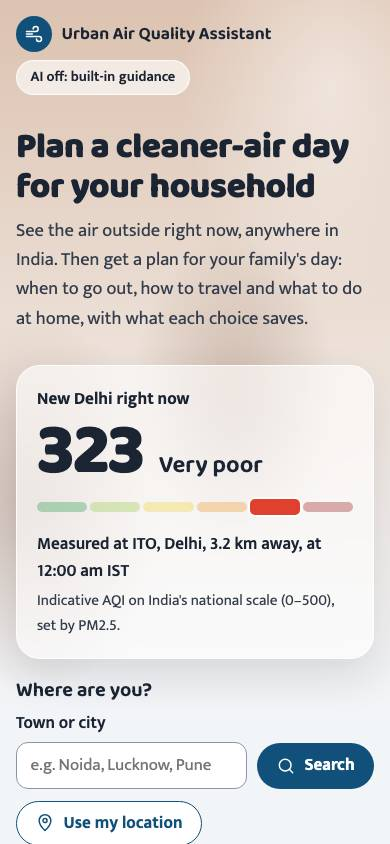
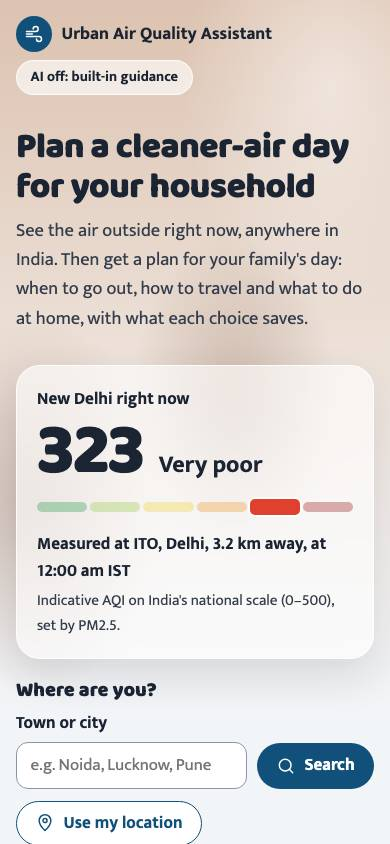
refactor: name shared limits, compute the AQI once, and lighten the fonts
- Query and question lengths, concentration bounds and per-minute
  budgets are named constants shared by the schema and the interface.
- The AQI is computed once in the app shell and passed down.
- A proper hour formatter replaces trimming ":00" off clock strings;
  the chart's screen-reader summary has its own helper.
- Two font files fewer (Baloo 2 at 800 only, Mukta 400 and 700) for a
  faster first paint on slow mobile connections.
- Whole-number fields open a numeric keypad.
- .env.example keeps optional settings commented out, and the deploy
  docs warn against placeholder values.

diff --git a/tests/ui/air.test.tsx b/tests/ui/air.test.tsx
@@ -2,14 +2,19 @@ import { render, screen } from "@testing-library/react";
 import userEvent from "@testing-library/user-event";
 import { describe, expect, it } from "vitest";
 import { AirNow } from "@/components/AirNow";
+import { indianAqi } from "@/lib/domain/aqi";
+import type { AirReport } from "@/lib/domain/air";
 import { OutlookChart } from "@/components/OutlookChart";
 import { outlookScale } from "@/components/outlook-scale";
 import { axeViolations } from "../support/axe";
 import { MODEL_READING, outlookFrom, report } from "../support/fixtures";
 
+/** AirNow with the index its parent would compute. */
+const airNow = (data: AirReport) => <AirNow report={data} aqi={indianAqi(data.reading)} />;
+
 describe("AirNow", () => {
   it("shows the index, its meaning, and exactly where and when it was measured", async () => {
-    const { container } = render(<AirNow report={report()} />);
+    const { container } = render(airNow(report()));
     expect(screen.getByText("Respiratory illness on prolonged exposure.")).toBeInTheDocument();
     expect(screen.getByText("OpenAQ (CPCB)")).toBeInTheDocument();
     expect(screen.getByText("ITO, Delhi, 3.2 km away")).toBeInTheDocument();
@@ -25,27 +30,22 @@ describe("AirNow", () => {
 
   it("labels a model estimate, explains why, and copes without PM10 or a station name", () => {
     const model = render(
-      <AirNow
-        report={report({
-          reading: { ...MODEL_READING, pm25: 30, pm10: 300 },
-          note: "No station nearby.",
-        })}
-      />,
+      airNow(
+        report({ reading: { ...MODEL_READING, pm25: 30, pm10: 300 }, note: "No station nearby." }),
+      ),
     );
     expect(screen.getByText("Model estimate for this spot")).toBeInTheDocument();
     expect(screen.getByText(/WHO 24-hour guideline/)).toHaveTextContent("PM2.5 is 2×");
     expect(screen.getByText("For")).toBeInTheDocument();
     expect(screen.getByText("No station nearby.")).toBeInTheDocument();
     model.unmount();
-    const noPm10 = render(
-      <AirNow report={report({ reading: { ...MODEL_READING, pm25: 12, pm10: null } })} />,
-    );
+    const noPm10 = render(airNow(report({ reading: { ...MODEL_READING, pm25: 12, pm10: null } })));
     expect(screen.queryByText("PM10")).not.toBeInTheDocument();
     expect(
       screen.getByText("PM2.5 is within the WHO 24-hour guideline (15 µg/m³)."),
     ).toBeInTheDocument();
     noPm10.unmount();
-    render(<AirNow report={report({ reading: { ...report().reading, station: null } })} />);
+    render(airNow(report({ reading: { ...report().reading, station: null } })));
     expect(screen.getByText("Monitoring station, 3.2 km away")).toBeInTheDocument();
   });
 });

diff --git a/src/components/OutlookChart.tsx b/src/components/OutlookChart.tsx
@@ -3,7 +3,7 @@
 import { memo, useMemo, useState } from "react";
 import type { OutlookHour } from "@/lib/domain/air";
 import { CATEGORY_LABEL, categoryForPm25 } from "@/lib/domain/aqi";
-import { formatClock } from "@/lib/domain/time";
+import { formatClock, formatHour } from "@/lib/domain/time";
 import { cleanestWindow } from "@/lib/domain/timing";
 import { outlookScale, PM25_DAILY_LIMIT } from "./outlook-scale";
 
@@ -14,6 +14,14 @@ export interface OutlookChartProps {
 
 const describe = (hour: OutlookHour): string =>
   `${formatClock(hour.time)}, ${String(Math.round(hour.pm25))} µg/m³ (${CATEGORY_LABEL[categoryForPm25(hour.pm25)]})`;
+
+/** One sentence a screen reader reads in place of the chart. */
+function summarise(day: OutlookHour[], bestHour: OutlookHour | undefined): string {
+  const values = day.map((hour) => Math.round(hour.pm25));
+  const range = `ranges from ${String(Math.min(...values))} to ${String(Math.max(...values))} µg/m³`;
+  const best = bestHour ? ` Cleanest waking hour: ${describe(bestHour)}.` : "";
+  return `Forecast PM2.5 for the next ${String(day.length)} hours ${range}.${best}`;
+}
 
 /** The next 24 hours of forecast PM2.5, with the cleanest waking hour picked out. */
 export const OutlookChart = memo(function OutlookChart({ outlook, source }: OutlookChartProps) {
@@ -26,7 +34,7 @@ export const OutlookChart = memo(function OutlookChart({ outlook, source }: Outl
     return <p className="note">No hourly forecast is available for this place right now.</p>;
   }
   const bestHour = day.find((hour) => hour.time === best?.start);
-  const summary = `Forecast PM2.5 for the next ${String(day.length)} hours ranges from ${String(Math.round(Math.min(...day.map((h) => h.pm25))))} to ${String(Math.round(Math.max(...day.map((h) => h.pm25))))} µg/m³.${bestHour ? ` Cleanest waking hour: ${describe(bestHour)}.` : ""}`;
+  const summary = summarise(day, bestHour);
 
   return (
     <figure className="outlook">
@@ -63,9 +71,7 @@ export const OutlookChart = memo(function OutlookChart({ outlook, source }: Outl
       </div>
       <ol className="outlook-axis" aria-hidden="true">
         {day.map((hour, index) => (
-          <li key={hour.time}>
-            {index % 4 === 0 ? formatClock(hour.time).replace(":00", "") : ""}
-          </li>
+          <li key={hour.time}>{index % 4 === 0 ? formatHour(hour.time) : ""}</li>
         ))}
       </ol>
       <details className="outlook-table">

diff --git a/src/components/AssistantApp.tsx b/src/components/AssistantApp.tsx
@@ -1,6 +1,6 @@
 "use client";
 
-import { lazy, Suspense, useCallback, useEffect, useMemo } from "react";
+import { useCallback, useEffect, useMemo } from "react";
 import type { Place } from "@/lib/domain/air";
 import type { PlanRequest } from "@/lib/ai/contracts";
 import { fetchAir, useApiCall } from "@/lib/client/api";
@@ -9,15 +9,13 @@ import { useHousehold, usePlace } from "@/lib/client/saved";
 import { indianAqi } from "@/lib/domain/aqi";
 import type { Sample } from "@/lib/samples";
 import { AirSection } from "./AirSection";
+import { AskSection } from "./AskSection";
 import { HouseholdForm } from "./HouseholdForm";
 import { PlaceSearch } from "./PlaceSearch";
 import { PlanSection } from "./PlanSection";
 import { SampleProfiles } from "./SampleProfiles";
 import { Intro, SiteFooter, SiteHeader, SkyBand } from "./SiteFrame";
 import { SkyReading } from "./SkyReading";
-
-// Shown only once live air has loaded, so its code loads then too.
-const AskPanel = lazy(() => import("./AskPanel").then((m) => ({ default: m.AskPanel })));
 
 export interface AssistantAppProps {
   aiEnabled: boolean;
@@ -87,6 +85,7 @@ export function AssistantApp({ aiEnabled }: AssistantAppProps) {
                 place={place}
                 status={air.status}
                 report={report}
+                aqi={aqi}
                 error={air.error}
                 onRetry={() => void loadAir(place)}
               />
@@ -96,14 +95,7 @@ export function AssistantApp({ aiEnabled }: AssistantAppProps) {
               <HouseholdForm value={household} onChange={setHousehold} />
             </section>
             <PlanSection request={request} />
-            {request && (
-              <section aria-labelledby="ask-heading" className="card span-all">
-                <h2 id="ask-heading">Ask about today</h2>
-                <Suspense fallback={<p>Loading…</p>}>
-                  <AskPanel context={request} />
-                </Suspense>
-              </section>
-            )}
+            {request && <AskSection context={request} />}
           </div>
         </main>
       </SkyBand>

diff --git a/src/components/PlaceSearch.tsx b/src/components/PlaceSearch.tsx
@@ -1,6 +1,7 @@
 "use client";
 
 import { useId, useState, type SubmitEvent } from "react";
+import { MAX_QUERY_LENGTH, MIN_QUERY_LENGTH } from "@/lib/air/contracts";
 import { searchPlaces, useApiCall } from "@/lib/client/api";
 import { useDeviceLocation } from "@/lib/client/geolocation";
 import type { Place } from "@/lib/domain/air";
@@ -23,7 +24,8 @@ export function PlaceSearch({ onSelect }: PlaceSearchProps) {
   function submit(event: SubmitEvent<HTMLFormElement>) {
     event.preventDefault();
     device.clearMessage();
-    if (query.trim().length >= 2) void search.run({ q: query.trim() });
+    const q = query.trim();
+    if (q.length >= MIN_QUERY_LENGTH) void search.run({ q });
   }
 
   function choose(place: Place) {
@@ -46,8 +48,8 @@ export function PlaceSearch({ onSelect }: PlaceSearchProps) {
             id={inputId}
             type="search"
             value={query}
-            minLength={2}
-            maxLength={60}
+            minLength={MIN_QUERY_LENGTH}
+            maxLength={MAX_QUERY_LENGTH}
             autoComplete="address-level2"
             placeholder="e.g. Noida, Lucknow, Pune"
             onChange={(event) => setQuery(event.target.value)}

diff --git a/src/components/AirNow.tsx b/src/components/AirNow.tsx
@@ -1,14 +1,15 @@
 "use client";
 
-import { memo, useMemo } from "react";
+import { memo } from "react";
 import type { AirReport, Reading } from "@/lib/domain/air";
-import { CATEGORY_HEALTH, indianAqi } from "@/lib/domain/aqi";
+import { CATEGORY_HEALTH, type AqiResult } from "@/lib/domain/aqi";
 import { cigarettesPerDay, WHO_PM25_DAILY, whoMultiple } from "@/lib/domain/exposure";
 import { formatClock } from "@/lib/domain/time";
 import { OutlookChart } from "./OutlookChart";
 
 export interface AirNowProps {
   report: AirReport;
+  aqi: AqiResult;
 }
 
 function SourceDetails({ reading }: { reading: Reading }) {
@@ -47,9 +48,8 @@ function SourceDetails({ reading }: { reading: Reading }) {
 }
 
 /** What today's air means for health, exactly where the numbers came from, and the day ahead. */
-export const AirNow = memo(function AirNow({ report }: AirNowProps) {
+export const AirNow = memo(function AirNow({ report, aqi }: AirNowProps) {
   const { reading } = report;
-  const aqi = useMemo(() => indianAqi(reading), [reading]);
   const cigarettes = cigarettesPerDay(reading.pm25);
   const who = whoMultiple(reading.pm25);
 

diff --git a/src/components/AirSection.tsx b/src/components/AirSection.tsx
@@ -1,18 +1,21 @@
 "use client";
 
+import type { CallStatus } from "@/lib/client/api";
 import type { AirReport, Place } from "@/lib/domain/air";
+import type { AqiResult } from "@/lib/domain/aqi";
 import { AirNow } from "./AirNow";
 
 export interface AirSectionProps {
   place: Place;
-  status: "idle" | "loading" | "done" | "error";
+  status: CallStatus;
   report: AirReport | undefined;
+  aqi: AqiResult | null;
   error: string | undefined;
   onRetry: () => void;
 }
 
 /** Live air for the chosen place, with loading and failure states. */
-export function AirSection({ place, status, report, error, onRetry }: AirSectionProps) {
+export function AirSection({ place, status, report, aqi, error, onRetry }: AirSectionProps) {
   return (
     <section
       aria-labelledby="air-heading"
@@ -29,7 +32,7 @@ export function AirSection({ place, status, report, error, onRetry }: AirSection
           </button>
         </div>
       )}
-      {status === "done" && report && <AirNow report={report} />}
+      {report && aqi && <AirNow report={report} aqi={aqi} />}
     </section>
   );
 }

diff --git a/src/components/AskPanel.tsx b/src/components/AskPanel.tsx
@@ -1,7 +1,7 @@
 "use client";
 
 import { useId, useState, type SubmitEvent } from "react";
-import { MAX_QUESTION_LENGTH, type PlanRequest } from "@/lib/ai/contracts";
+import { MAX_QUESTION_LENGTH, MIN_QUESTION_LENGTH, type PlanRequest } from "@/lib/ai/contracts";
 import { askQuestion, useApiCall } from "@/lib/client/api";
 import { SourceNote } from "./SourceNote";
 
@@ -25,7 +25,7 @@ export function AskPanel({ context }: AskPanelProps) {
   function submit(event: SubmitEvent<HTMLFormElement>) {
     event.preventDefault();
     const text = question.trim();
-    if (text.length >= 3) void ask.run({ ...context, question: text });
+    if (text.length >= MIN_QUESTION_LENGTH) void ask.run({ ...context, question: text });
   }
 
   return (
@@ -37,7 +37,7 @@ export function AskPanel({ context }: AskPanelProps) {
             id={id}
             rows={2}
             value={question}
-            minLength={3}
+            minLength={MIN_QUESTION_LENGTH}
             maxLength={MAX_QUESTION_LENGTH}
             onChange={(event) => setQuestion(event.target.value)}
           />

diff --git a/src/lib/server/ai-route.ts b/src/lib/server/ai-route.ts
@@ -8,6 +8,9 @@ import { jsonResponse, NO_STORE, readLimitedBody, refusal } from "./request";
 import { createStores } from "./stores";
 
 const MAX_BODY_BYTES = 32_000;
+/** Model calls spend quota, so each client gets ten a minute on each AI route. */
+const AI_REQUESTS_PER_MINUTE = 10;
+const CACHE_MINUTES = 10;
 
 export interface AiRouteOptions<I, O> {
   name: string;
@@ -61,9 +64,9 @@ function fallbackNotice(error: unknown): string {
 export function aiRoute<I, O>({ name, input, output, run, fallback }: AiRouteOptions<I, O>) {
   const { limiter, cache } = createStores<AiEnvelope<O>>({
     name: `ai-${name}`,
-    limit: 10,
+    limit: AI_REQUESTS_PER_MINUTE,
     windowMs: 60_000,
-    ttlMs: 10 * 60_000,
+    ttlMs: CACHE_MINUTES * 60_000,
     maxEntries: 200,
     schema: envelopeOf(output),
   });

diff --git a/src/lib/air/openaq.ts b/src/lib/air/openaq.ts
@@ -4,7 +4,7 @@ import "server-only";
 // PM2.5 recently.
 
 import { z } from "../zod";
-import type { Reading } from "../domain/air";
+import { MAX_CONCENTRATION, type Reading } from "../domain/air";
 import { distanceKm, type Coordinates } from "../domain/geo";
 import { fetchJson, urlWith } from "./fetch-json";
 
@@ -42,7 +42,7 @@ const isFresh = (utc: string, now: number): boolean =>
   now - Date.parse(utc) <= MAX_AGE_HOURS * 3_600_000;
 
 /** Plausible concentrations only; networks sometimes report placeholders like -999. */
-const plausible = (value: number): boolean => value >= 0 && value <= 2000;
+const plausible = (value: number): boolean => value >= 0 && value <= MAX_CONCENTRATION;
 
 function nearestFresh(locations: Location[], point: Coordinates, now: number) {
   return locations

diff --git a/src/lib/server/data-route.ts b/src/lib/server/data-route.ts
@@ -5,6 +5,9 @@ import { errorResponse } from "../api-errors";
 import { jsonResponse, NO_STORE, refusal } from "./request";
 import { createStores } from "./stores";
 
+/** Lookups are cheap but hit outside services, so each client gets thirty a minute per route. */
+const DATA_REQUESTS_PER_MINUTE = 30;
+
 export interface DataRouteOptions<I, O> {
   name: string;
   /** Validates the query string, as an object of its parameters. */
@@ -24,7 +27,7 @@ export interface DataRouteOptions<I, O> {
 export function dataRoute<I, O>({ name, query, output, run, ttlMs }: DataRouteOptions<I, O>) {
   const { limiter, cache } = createStores<O>({
     name,
-    limit: 30,
+    limit: DATA_REQUESTS_PER_MINUTE,
     windowMs: 60_000,
     ttlMs,
     maxEntries: 500,

diff --git a/src/app/layout.tsx b/src/app/layout.tsx
@@ -5,8 +5,9 @@ import "./globals.css";
 
 // Both from Ek Type, a Mumbai foundry; both cover Devanagari. Next serves the
 // files from this site, so the Content-Security-Policy stays 'self'.
-const display = Baloo_2({ subsets: ["latin"], weight: ["600", "800"], variable: "--font-display" });
-const body = Mukta({ subsets: ["latin"], weight: ["400", "600", "700"], variable: "--font-body" });
+// Two weights in all: Baloo 2 for big type only, Mukta for everything else.
+const display = Baloo_2({ subsets: ["latin"], weight: ["800"], variable: "--font-display" });
+const body = Mukta({ subsets: ["latin"], weight: ["400", "700"], variable: "--font-body" });
 
 export const metadata: Metadata = {
   title: "Urban Air Quality Assistant",

diff --git a/src/components/AskSection.tsx b/src/components/AskSection.tsx
@@ -1,0 +1,22 @@
+"use client";
+
+import { lazy, Suspense } from "react";
+import type { PlanRequest } from "@/lib/ai/contracts";
+
+// Shown only once live air has loaded, so its code loads then too.
+const AskPanel = lazy(() => import("./AskPanel").then((m) => ({ default: m.AskPanel })));
+
+export interface AskSectionProps {
+  context: PlanRequest;
+}
+
+export function AskSection({ context }: AskSectionProps) {
+  return (
+    <section aria-labelledby="ask-heading" className="card span-all">
+      <h2 id="ask-heading">Ask about today</h2>
+      <Suspense fallback={<p>Loading…</p>}>
+        <AskPanel context={context} />
+      </Suspense>
+    </section>
+  );
+}
